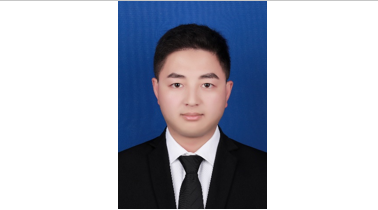
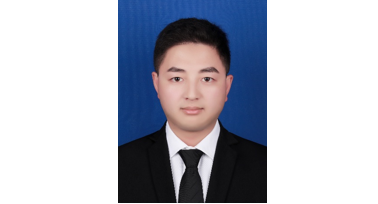
2

diff --git a/4/css/style.css b/4/css/style.css
@@ -115,7 +115,7 @@ body {
 	/* team_option2 */
 .team_option2 ul li {clear:none;width:452px;padding:0;border:none;}
 .team_option2 ul li:nth-child(2n+2) {float:right;}
-.team_option2 ul li .img {width:auto;border:5px solid #f6f3f3;float:none;margin-bottom:20px;}
+.team_option2 ul li .img {width:auto;border:0px solid #f6f3f3;float:none;margin-bottom:20px;}
 .team_option2 ul li .desc {width:auto;float:none;padding:0;}
 .team_option2 ul li .desc .social {top:5px;}
 .team_option2 ul li .desc .social li {float:left;width:auto;padding:0 0 0 6px;font-size:0;line-height:0;}
